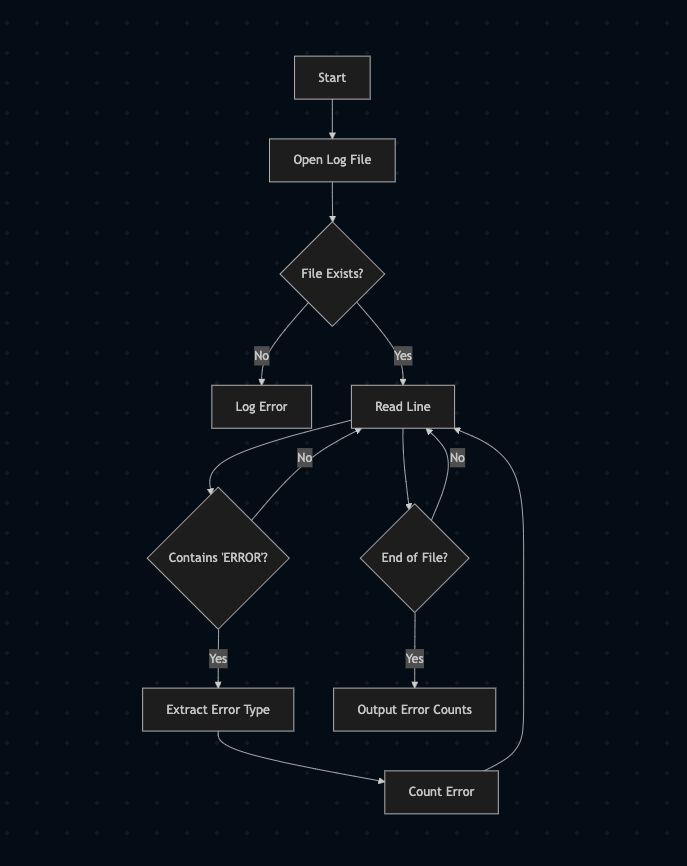
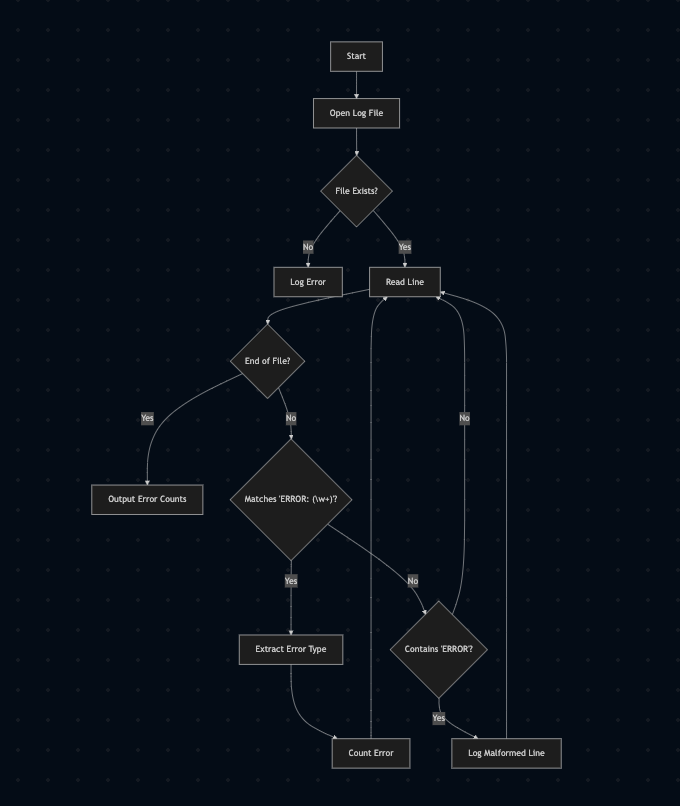
docs(blog): update flow chart

Changed region(s): [[0.1235, 0.031, 0.8338, 0.9615], [0.1853, 0.4963, 0.2471, 0.5273], [0.4324, 0.8685, 0.4632, 0.8995]]

diff --git a/_posts/2025-04-11-log-parsing.md b/_posts/2025-04-11-log-parsing.md
@@ -75,7 +75,7 @@ This balances simplicity with flexibility, a key consideration for teams managin
 This script is a practical starting point for engineers managing distributed systems or log analysis at a large scale, where rapid error detection is critical. It could slot into incident response playbooks, parsing logs to flag spikes in 500 errors, or feed automated alerts for proactive monitoring.
 
 ## Visualizing the Process
-Here’s a flowchart of the log parsing logic (line by line reading not shown for simplicity):
+Here’s a flowchart of the log parsing logic:
 ![Desktop View](/assets/img/posts/202504011/log-parse-flow-chart.png){: width="100%" height="auto" }
 _Log parsing flow chart_
 
